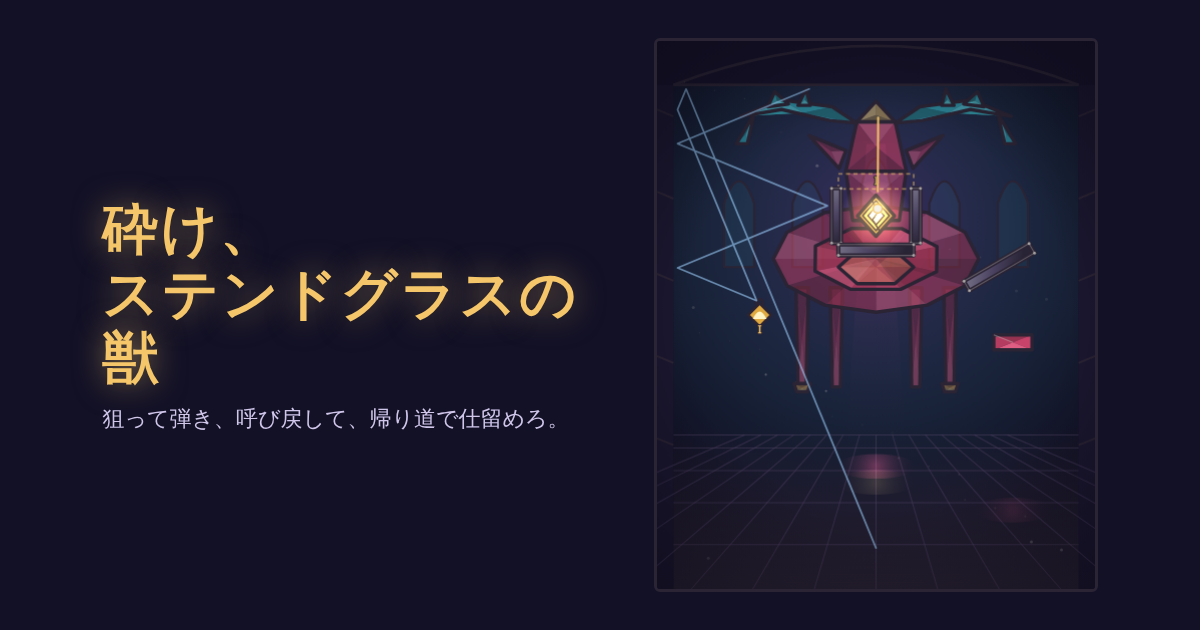
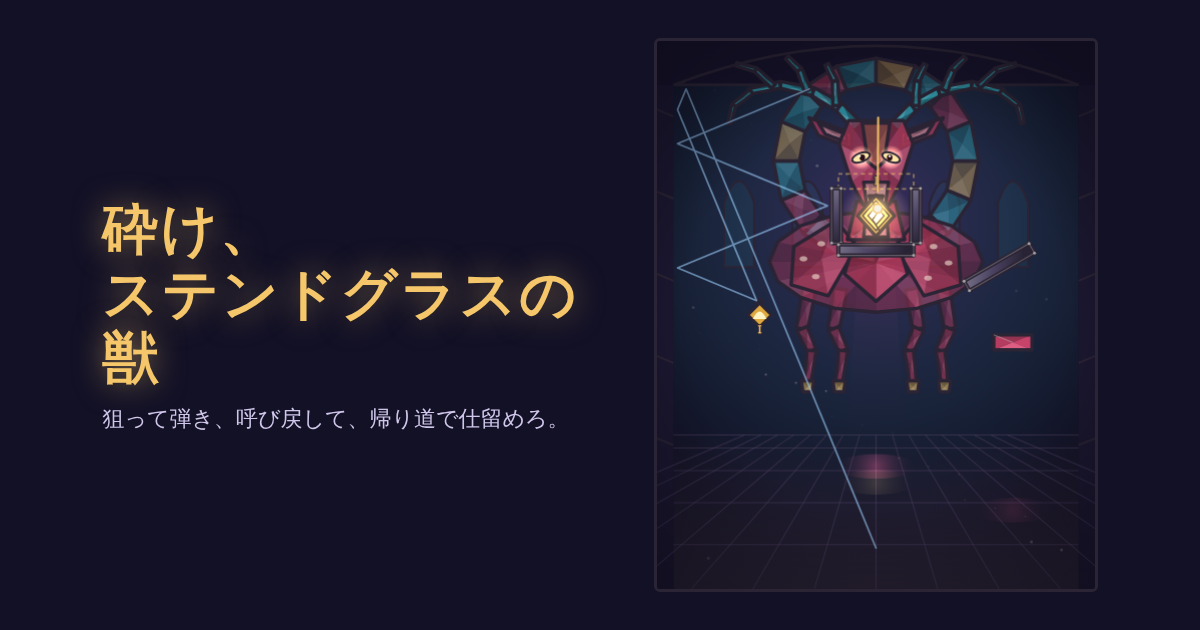
[FIX] 砕け、ステンドグラスの獣：獣の絵を描き直し（顔・光る目・角・羽・うろこ・光輪）
Claude-Session: https://claude.ai/code/session_01MokQntdd3n6K58QCqVKUx1

Changed region(s): [[0.6167, 0.0905, 0.8325, 0.6333]]

diff --git a/site/games/stained-glass-beasts/render.js b/site/games/stained-glass-beasts/render.js
@@ -54,70 +54,175 @@ function facet(ctx, pts, tone, alpha = 1, glow = 0) {
 }
 
 // ───── 獣の絵（当たり判定なし）─────
-function beastShapes(key) {
-  const sh = [];
-  const poly = (pts, tone, a = 0.55) => sh.push({ pts, tone, a });
-  const ell = (cx, cy, rx, ry, n = 14, rot = 0) => Array.from({ length: n }, (_, i) => {
-    const t = (i / n) * Math.PI * 2 + rot;
-    return [cx + Math.cos(t) * rx, cy + Math.sin(t) * ry];
-  });
-  const rect = (cx, cy, w, h, d = 0) => {
-    const c = Math.cos((d * Math.PI) / 180); const s = Math.sin((d * Math.PI) / 180);
-    return [[-w / 2, -h / 2], [w / 2, -h / 2], [w / 2, h / 2], [-w / 2, h / 2]].map(([x, y]) => [cx + x * c - y * s, cy + x * s + y * c]);
-  };
-  if (key === 'deer') {
-    for (const x of [212, 262, 378, 428]) poly([[x - 9, 360], [x + 9, 360], [x + 6, 505], [x - 6, 505]], 'ruby', 0.5);
-    for (const x of [212, 428]) poly([[x - 12, 500], [x + 12, 500], [x + 8, 512], [x - 8, 512]], 'gold', 0.5);
-    poly(ell(320, 318, 150, 78, 12), 'ruby', 0.58);
-    poly(ell(320, 318, 96, 48, 8, 0.4), 'ruby', 0.7);
-    poly(ell(320, 330, 55, 28, 6), 'gold', 0.3);
-    poly([[286, 262], [354, 262], [364, 190], [276, 190]], 'ruby', 0.55);
-    poly([[276, 190], [364, 190], [348, 118], [292, 118]], 'ruby', 0.7);
-    poly([[292, 118], [348, 118], [320, 88]], 'gold', 0.6);
-    poly([[276, 160], [222, 138], [266, 186]], 'ruby', 0.55); poly([[364, 160], [418, 138], [374, 186]], 'ruby', 0.55);
-    for (const sgn of [-1, 1]) {
-      const x0 = 320 + sgn * 28;
-      poly([[x0, 120], [x0 + sgn * 36, 96], [x0 + sgn * 110, 86], [x0 + sgn * 170, 110], [x0 + sgn * 110, 100], [x0 + sgn * 40, 116]], 'peacock', 0.85);
-      poly([[x0 + sgn * 100, 92], [x0 + sgn * 120, 74], [x0 + sgn * 130, 96]], 'peacock', 0.85);
-      poly([[x0 + sgn * 68, 94], [x0 + sgn * 74, 70], [x0 + sgn * 86, 94]], 'peacock', 0.85);
-      poly([[x0 + sgn * 150, 106], [x0 + sgn * 176, 150], [x0 + sgn * 160, 150]], 'peacock', 0.75);
-    }
-  } else if (key === 'snake') {
-    const pts = [[120, 150], [300, 130], [470, 190], [520, 300], [420, 360], [200, 350], [110, 430], [200, 520], [400, 520]];
-    for (let i = 0; i < pts.length - 1; i++) {
-      const [x0, y0] = pts[i]; const [x1, y1] = pts[i + 1];
-      const ang = Math.atan2(y1 - y0, x1 - x0); const w = 30 - i * 1.5;
-      const nx = -Math.sin(ang) * w; const ny = Math.cos(ang) * w;
-      poly([[x0 + nx, y0 + ny], [x1 + nx, y1 + ny], [x1 - nx, y1 - ny], [x0 - nx, y0 - ny]], i % 2 ? 'peacock' : 'jade', 0.5);
-      poly([[x0, y0], [x1, y1], [x0 + nx * 0.5, y0 + ny * 0.5]], 'gold', 0.22);
-    }
-    poly(ell(120, 140, 44, 30, 10, 0.4), 'peacock', 0.62); // 頭A
-    poly(ell(404, 524, 40, 28, 10, 0.2), 'peacock', 0.62); // 頭B（二つの蛇頭）
-    poly([[420, 520], [460, 510], [440, 530]], 'ruby', 0.7);
-    poly([[102, 135], [92, 120], [112, 124]], 'gold', 0.8);
-  } else {
-    poly(ell(320, 300, 70, 150, 12), 'purple', 0.5); // 胴
-    poly(ell(320, 130, 70, 62, 12), 'purple', 0.6); // 顔
-    poly(ell(320, 330, 40, 90, 10), 'gold', 0.2);
-    poly([[300, 118], [340, 118], [320, 150]], 'gold', 0.7);
-    poly(ell(290, 122, 14, 14, 6), 'gold', 0.6); poly(ell(350, 122, 14, 14, 6), 'gold', 0.6);
-    poly([[270, 72], [300, 92], [280, 100]], 'purple', 0.7); poly([[370, 72], [340, 92], [360, 100]], 'purple', 0.7);
-    for (const sgn of [-1, 1]) {
-      for (let i = 0; i < 5; i++) {
-        const y0 = 190 + i * 36; const xo = 70 + i * 6;
-        poly([[320 + sgn * xo, y0], [320 + sgn * (xo + 210 - i * 22), y0 - 30 + i * 28], [320 + sgn * (xo + 190 - i * 22), y0 + 12 + i * 28], [320 + sgn * xo, y0 + 40]], i % 2 ? 'peacock' : 'purple', 0.5);
-      }
+// 太さのある折れ線（帯）を四角形の列にする
+function strip(line, w0, w1 = w0) {
+  const out = [];
+  for (let i = 0; i < line.length - 1; i++) {
+    const [x0, y0] = line[i]; const [x1, y1] = line[i + 1];
+    const ang = Math.atan2(y1 - y0, x1 - x0);
+    const wa = w0 + (w1 - w0) * (i / (line.length - 1)); const wb = w0 + (w1 - w0) * ((i + 1) / (line.length - 1));
+    const nx = -Math.sin(ang); const ny = Math.cos(ang);
+    out.push([[x0 + nx * wa, y0 + ny * wa], [x1 + nx * wb, y1 + ny * wb], [x1 - nx * wb, y1 - ny * wb], [x0 - nx * wa, y0 - ny * wa]]);
+  }
+  return out;
+}
+const ell = (cx, cy, rx, ry, n = 14, rot = 0) => Array.from({ length: n }, (_, i) => {
+  const t = (i / n) * Math.PI * 2 + rot;
+  return [cx + Math.cos(t) * rx, cy + Math.sin(t) * ry];
+});
+const mirrorX = (pts) => pts.map(([x, y]) => [640 - x, y]);
+function smooth(line, k = 4) {
+  const out = [];
+  for (let i = 0; i < line.length - 1; i++) {
+    const p0 = line[Math.max(0, i - 1)]; const p1 = line[i]; const p2 = line[i + 1]; const p3 = line[Math.min(line.length - 1, i + 2)];
+    for (let j = 0; j < k; j++) {
+      const t = j / k; const t2 = t * t; const t3 = t2 * t;
+      const f = (a, b, c, d) => 0.5 * ((2 * b) + (-a + c) * t + (2 * a - 5 * b + 4 * c - d) * t2 + (-a + 3 * b - 3 * c + d) * t3);
+      out.push([f(p0[0], p1[0], p2[0], p3[0]), f(p0[1], p1[1], p2[1], p3[1])]);
     }
   }
-  return sh;
+  out.push(line[line.length - 1]);
+  return out;
+}
+
+function beastShapes(key) {
+  const sh = []; const eyes = [];
+  const poly = (pts, tone, a = 0.55) => sh.push({ pts, tone, a });
+  const both = (pts, tone, a) => { poly(pts, tone, a); poly(mirrorX(pts), tone, a); };
+  // 後ろの丸窓（光輪）
+  const halo = (cx, cy, r0, r1, n, tones) => {
+    for (let i = 0; i < n; i++) {
+      const t0 = (i / n) * Math.PI * 2; const t1 = ((i + 1) / n) * Math.PI * 2;
+      poly([[cx + Math.cos(t0) * r0, cy + Math.sin(t0) * r0], [cx + Math.cos(t0) * r1, cy + Math.sin(t0) * r1], [cx + Math.cos(t1) * r1, cy + Math.sin(t1) * r1], [cx + Math.cos(t1) * r0, cy + Math.sin(t1) * r0]], tones[i % tones.length], 0.5);
+    }
+  };
+  if (key === 'deer') {
+    halo(320, 175, 112, 150, 16, ['gold', 'peacock', 'ruby', 'peacock']);
+    // 脚（細い脚と関節、金のひづめ）
+    for (const x of [222, 268, 372, 418]) {
+      const lean = x < 320 ? -4 : 4;
+      strip([[x, 362], [x + lean * 2.5, 420], [x - lean, 452], [x + lean * 0.5, 498]], 10, 5).forEach((q, i) => poly(q, i ? 'ruby' : 'ruby', i ? 0.62 : 0.5));
+      poly([[x + lean * 0.5 - 9, 496], [x + lean * 0.5 + 9, 496], [x + lean * 0.5 + 7, 512], [x + lean * 0.5 - 7, 512]], 'gold', 0.75);
+    }
+    // 胴と肩
+    poly(ell(320, 322, 156, 74, 16), 'ruby', 0.5);
+    both([[200, 300], [262, 262], [292, 300], [250, 372], [196, 356]], 'ruby', 0.68);
+    poly([[292, 280], [348, 280], [366, 340], [320, 380], [274, 340]], 'ruby', 0.8);
+    // 子鹿の白い斑点
+    for (const [x, y] of [[214, 318], [240, 296], [232, 344], [404, 300], [426, 324], [396, 346]]) sh.push({ pts: ell(x, y, 6, 4, 8), tone: 'silver', a: 0.55, spot: true });
+    // 首
+    poly([[292, 234], [348, 234], [362, 290], [278, 290]], 'ruby', 0.7);
+    poly([[306, 240], [334, 240], [338, 286], [302, 286]], 'silver', 0.28);
+    // 角（枝分かれ）
+    for (const sg of [-1, 1]) {
+      const X = (x) => 320 + sg * x;
+      strip([[X(26), 126], [X(54), 96], [X(92), 74], [X(140), 64], [X(186), 74]], 8, 4).forEach((q) => poly(q, 'peacock', 0.9));
+      strip([[X(58), 94], [X(60), 58], [X(72), 34]], 5, 3).forEach((q) => poly(q, 'peacock', 0.9));
+      strip([[X(100), 72], [X(112), 42], [X(130), 24]], 5, 3).forEach((q) => poly(q, 'peacock', 0.9));
+      strip([[X(150), 66], [X(176), 42], [X(204), 34]], 4, 2.5).forEach((q) => poly(q, 'peacock', 0.9));
+      strip([[X(182), 74], [X(208), 94], [X(214), 120]], 4, 2.5).forEach((q) => poly(q, 'peacock', 0.85));
+    }
+    // 耳
+    both([[284, 134], [222, 112], [236, 138], [284, 156]], 'ruby', 0.75);
+    both([[276, 136], [236, 120], [246, 136], [278, 148]], 'silver', 0.4);
+    // 頭
+    poly([[280, 116], [360, 116], [374, 150], [356, 206], [338, 240], [302, 240], [284, 206], [266, 150]], 'ruby', 0.82);
+    poly([[300, 120], [340, 120], [332, 176], [320, 186], [308, 176]], 'gold', 0.35); // 額の金の飾り
+    poly([[302, 206], [338, 206], [334, 238], [306, 238]], 'silver', 0.45); // 鼻先
+    poly([[310, 226], [330, 226], [326, 236], [314, 236]], 'lead', 0.95); // 鼻
+    eyes.push({ x: 298, y: 170, r: 9, c: '#FFE9A8', almond: -0.35 }, { x: 342, y: 170, r: 9, c: '#FFE9A8', almond: 0.35 });
+  } else if (key === 'snake') {
+    const line = [[150, 160], [300, 136], [460, 190], [520, 296], [420, 362], [210, 352], [118, 432], [196, 516], [352, 534], [430, 520]];
+    const segs = strip(smooth(line), 30, 16);
+    segs.forEach((q, i) => {
+      poly(q, Math.floor(i / 2) % 2 ? 'peacock' : 'jade', 0.62);
+      // 腹の金の帯
+      const [a, bq, c, d] = q; const mid = (p, r) => [p[0] + (r[0] - p[0]) * 0.35, p[1] + (r[1] - p[1]) * 0.35];
+      poly([mid(a, d), mid(bq, c), mid(c, bq), mid(d, a)].map((pt, k) => pt), 'gold', 0.18);
+      // うろこ（菱形）
+      const cx = (a[0] + c[0]) / 2; const cy = (a[1] + c[1]) / 2;
+      if (i % 2 === 0) poly([[cx, cy - 7], [cx + 7, cy], [cx, cy + 7], [cx - 7, cy]], 'silver', 0.35);
+    });
+    // 二つの頭（えり飾り・光る目・牙・舌）
+    const head = (cx, cy, dir, rot) => {
+      const K = 1.5; const R = (x, y) => { const c = Math.cos(rot); const s2 = Math.sin(rot); return [cx + (x * K * c - y * K * s2) * dir, cy + (x * K * s2 + y * K * c)]; };
+      // えり
+      for (let i = -2; i <= 2; i++) poly([R(18, i * 14 - 6), R(-30 - Math.abs(i) * 4, i * 22 - 8), R(-26 - Math.abs(i) * 4, i * 22 + 10), R(18, i * 14 + 6)], i % 2 ? 'purple' : 'gold', 0.6);
+      poly([R(-22, -30), R(30, -26), R(64, -6), R(66, 8), R(30, 28), R(-22, 26)], 'peacock', 0.85);
+      poly([R(0, -22), R(40, -16), R(30, 0), R(0, -4)], 'jade', 0.6);
+      poly([R(64, 10), R(70, 18), R(60, 20)], 'silver', 0.9); // 牙
+      poly([R(66, 2), R(96, 4), R(104, -4), R(100, 6), R(104, 14), R(96, 8), R(66, 8)], 'ruby', 0.85); // 舌
+      const [ex, ey] = R(26, -12);
+      eyes.push({ x: ex, y: ey, r: 11, c: '#FFD76A', slit: true });
+    };
+    head(170, 160, 1, Math.PI);
+    head(430, 520, 1, 0);
+  } else {
+    halo(320, 140, 96, 132, 16, ['gold', 'peacock', 'purple', 'peacock']);
+    // 翼（重なる羽）
+    for (const sg of [-1, 1]) {
+      for (let i = 0; i < 6; i++) {
+        const y0 = 186 + i * 30; const xo = 66 + i * 4; const len = 236 - i * 26;
+        const pts = [[320 + sg * xo, y0], [320 + sg * (xo + len), y0 - 26 + i * 22], [320 + sg * (xo + len - 16), y0 + 16 + i * 22], [320 + sg * xo, y0 + 40]];
+        poly(pts, i % 2 ? 'peacock' : 'purple', 0.55);
+        poly([[320 + sg * (xo + len * 0.55), y0 - 6 + i * 12], [320 + sg * (xo + len), y0 - 26 + i * 22], [320 + sg * (xo + len * 0.6), y0 + 8 + i * 14]], 'silver', 0.25);
+      }
+    }
+    // 胴と胸の羽（うろこ状）
+    poly(ell(320, 312, 76, 150, 16), 'purple', 0.6);
+    for (let r = 0; r < 5; r++) for (let c = -2; c <= 2; c++) {
+      if (Math.abs(c) + r * 0.4 > 3) continue;
+      const x = 320 + c * 26 + (r % 2) * 13; const y = 236 + r * 34;
+      poly([[x - 12, y], [x + 12, y], [x, y + 18]], r % 2 ? 'gold' : 'silver', 0.32);
+    }
+    // 金の爪
+    for (const x of [292, 348]) for (const d of [-8, 0, 8]) poly([[x + d - 3, 452], [x + d + 3, 452], [x + d, 470]], 'gold', 0.85);
+    // 顔の皿（ハート形）と羽角
+    both([[320, 96], [270, 66], [244, 92], [250, 150], [284, 178], [320, 186]], 'purple', 0.82);
+    both([[320, 104], [278, 82], [258, 104], [264, 148], [292, 168], [320, 172]], 'silver', 0.3);
+    both([[262, 78], [236, 30], [282, 68]], 'purple', 0.85);
+    both([[264, 74], [248, 44], [276, 70]], 'gold', 0.45);
+    poly([[308, 140], [332, 140], [320, 170]], 'gold', 0.9); // くちばし
+    eyes.push({ x: 290, y: 124, r: 17, c: '#FFC94A', ring: true }, { x: 350, y: 124, r: 17, c: '#FFC94A', ring: true });
+  }
+  return { sh, eyes };
 }
 const decorCache = {};
 function decorOf(key) { return decorCache[key] || (decorCache[key] = beastShapes(key)); }
 
+function drawEye(ctx, e, time, dim) {
+  const blink = Math.max(0, Math.sin(time * 0.7 + e.x * 0.01)) > 0.995 ? 0.15 : 1;
+  ctx.save();
+  ctx.globalAlpha = dim;
+  const g = ctx.createRadialGradient(e.x, e.y, 1, e.x, e.y, e.r * (e.almond ? 2 : 3));
+  g.addColorStop(0, e.c); g.addColorStop(1, 'rgba(255,220,140,0)');
+  ctx.globalCompositeOperation = 'lighter';
+  ctx.fillStyle = g; ctx.beginPath(); ctx.arc(e.x, e.y, e.r * (e.almond ? 2 : 3), 0, 7); ctx.fill();
+  ctx.globalCompositeOperation = 'source-over';
+  const rx = e.almond ? e.r * 1.35 : e.r; const ry = (e.almond ? e.r * 0.55 : e.r) * blink; const rot = e.almond || 0;
+  ctx.fillStyle = LEAD; ctx.beginPath(); ctx.ellipse(e.x, e.y, rx + 3, ry + 3, rot, 0, 7); ctx.fill();
+  ctx.fillStyle = e.c; ctx.beginPath(); ctx.ellipse(e.x, e.y, rx, ry, rot, 0, 7); ctx.fill();
+  if (e.almond && blink > 0.5) { ctx.fillStyle = '#2a0a14'; ctx.beginPath(); ctx.ellipse(e.x + (rot < 0 ? 2 : -2), e.y, e.r * 0.45, e.r * 0.5, 0, 0, 7); ctx.fill(); ctx.fillStyle = 'rgba(255,255,255,.9)'; ctx.beginPath(); ctx.arc(e.x - 2, e.y - 2, 1.8, 0, 7); ctx.fill(); ctx.restore(); return; }
+  if (blink > 0.5) {
+    ctx.fillStyle = '#1a1020';
+    if (e.slit) { ctx.beginPath(); ctx.ellipse(e.x, e.y, e.r * 0.22, e.r * 0.85, 0, 0, 7); ctx.fill(); }
+    else if (e.ring) { ctx.beginPath(); ctx.arc(e.x, e.y, e.r * 0.55, 0, 7); ctx.fill(); ctx.strokeStyle = '#fff4c8'; ctx.lineWidth = 1.5; ctx.beginPath(); ctx.arc(e.x, e.y, e.r * 0.78, 0, 7); ctx.stroke(); }
+    else { ctx.beginPath(); ctx.arc(e.x + 1, e.y + 1, e.r * 0.5, 0, 7); ctx.fill(); }
+    ctx.fillStyle = 'rgba(255,255,255,.9)'; ctx.beginPath(); ctx.arc(e.x - e.r * 0.3, e.y - e.r * 0.35, Math.max(1.5, e.r * 0.22), 0, 7); ctx.fill();
+  }
+  ctx.restore();
+}
+
 export function drawDecor(ctx, beastIdx, time, dim = 1) {
   const key = BEASTS[beastIdx].key;
   const breathe = 0.85 + Math.sin(time * 1.1) * 0.15;
-  for (const s of decorOf(key)) facet(ctx, s.pts, s.tone, s.a * breathe * dim);
+  const d = decorOf(key);
+  for (const s of d.sh) {
+    if (s.glow) { const [gx, gy, gr] = s.glow; const g = ctx.createRadialGradient(gx, gy, gr * 0.3, gx, gy, gr); g.addColorStop(0, `rgba(255,200,120,${0.16 * dim})`); g.addColorStop(1, 'rgba(255,200,120,0)'); ctx.save(); ctx.globalCompositeOperation = 'lighter'; ctx.fillStyle = g; ctx.beginPath(); ctx.arc(gx, gy, gr, 0, 7); ctx.fill(); ctx.restore(); continue; }
+    if (s.spot) { ctx.save(); ctx.globalAlpha = s.a * dim; path(ctx, s.pts); ctx.fillStyle = '#FFF4DE'; ctx.fill(); ctx.restore(); continue; }
+    facet(ctx, s.pts, s.tone, s.a * breathe * dim);
+  }
+  for (const e of d.eyes) drawEye(ctx, e, time, dim);
 }
 
 // ───── 背景（聖堂）─────
@@ -397,7 +502,8 @@ export function drawMemorial(ctx, level, mem, w = W, h = H) {
   const bg = ctx.createRadialGradient(320, 300, 30, 320, 330, 420); bg.addColorStop(0, '#2a2150'); bg.addColorStop(1, '#0f0c20');
   ctx.fillStyle = bg; ctx.fillRect(0, 0, W, H);
   // 獣の姿は暗い鉛線で
-  for (const s of decorOf(BEASTS[level.beast].key)) {
+  for (const s of decorOf(BEASTS[level.beast].key).sh) {
+    if (!s.pts) continue;
     path(ctx, s.pts); ctx.fillStyle = 'rgba(43,36,53,0.35)'; ctx.fill(); ctx.strokeStyle = 'rgba(90,76,120,0.7)'; ctx.lineWidth = 2.5; ctx.stroke();
   }
   // 部位：割った所は明るい色で復元、未破壊は鉛線のみ
